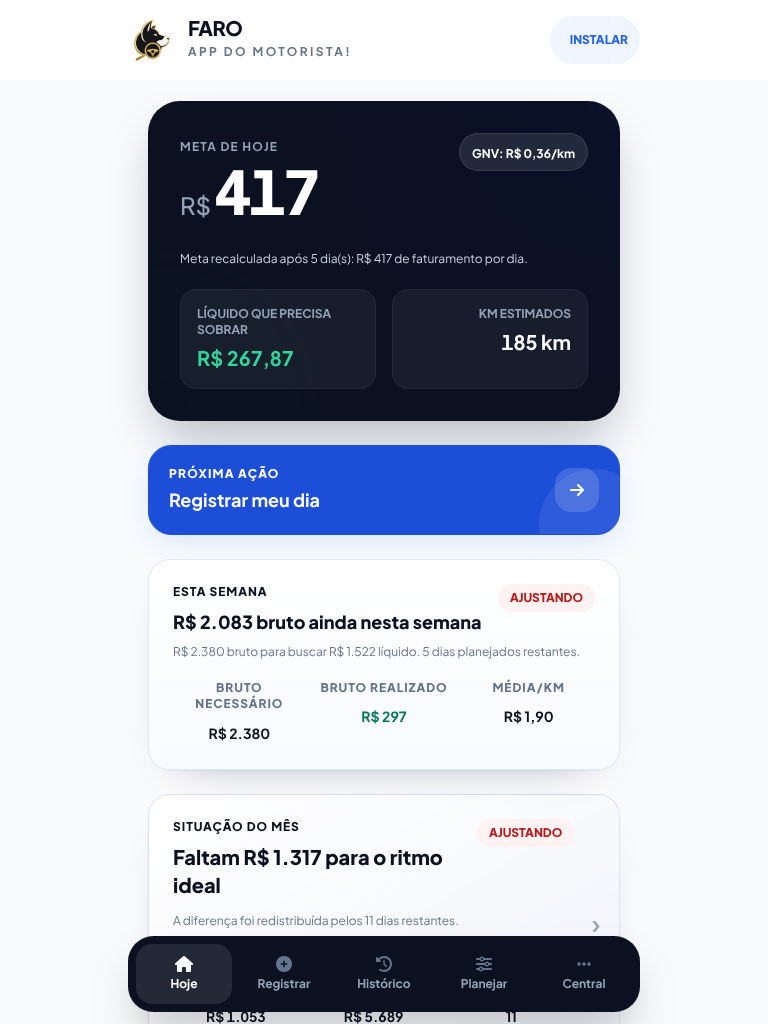
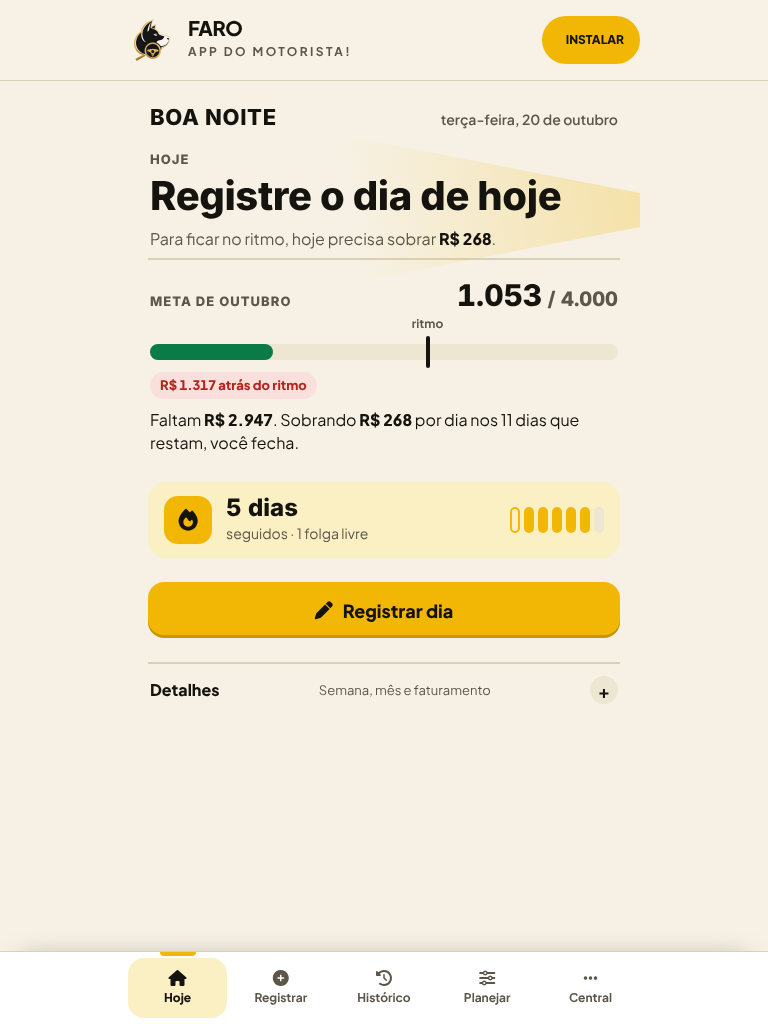
docs: estado real do plano ao fim do dia 1
Claude-Session: https://claude.ai/code/session_01CPX7m46cRthfLWuFdbhywq

diff --git a/PLANO.md b/PLANO.md
@@ -43,3 +43,9 @@ APK/Play Billing, ranking público, comparativo da cidade (v2), Pix recorrente (
 
 ## Governança enxuta
 Manter: hashes de núcleo financeiro, fail-closed do billing, deploy manual, branch de arquivo intocada. Dispensar para o resto: recibo por sondagem e estados BUILT/LOCAL_PASS em tudo que não for dinheiro.
+
+
+## Estado real em 2026-10-20 (fim do dia 1; atualizado a cada integração)
+FEITO e provado por teste (`npm run check` exit 0): paywall no servidor (trava ainda DESLIGADA), trial 7 dias único por e-mail, webhook corrigido, 4 Edge Functions no ar fail-closed (checkout, portal, webhook, excluir conta), cupom `PRAGAS` na sandbox, ícones PNG/manifest/offline, CSP/headers (Cloudflare), escape de HTML (módulos de dados), registro sem perda de dado + registrar em ~20 s, Início com 1 número herói, tema preto+âmbar global, termos/privacidade/excluir conta, QA de telas (qa:ui), guias Cloudflare/Supabase Free.
+FALTA (código): escape nos 4 módulos restantes (em andamento), vocabulário único (F7), edição com desfazer (F6), onboarding em 3 perguntas (F5), conquistas de dinheiro real, tela de Planos/trial/cupom (F8), tutorial de instalação iPhone refinado, telemetria mínima.
+FALTA (dono): 4 segredos no Supabase, permissões no settings.json, Cloudflare Pages (conta), campos legais, teste em iPhone/Android reais. Ver `docs/pendencias-do-dono.md`.

diff --git a/STATUS.md b/STATUS.md
@@ -3,7 +3,7 @@
 **REMOTE_FIRST = ALWAYS** · **SOLE_DURABLE_PROJECT_TRUTH = GitHub remote** · Linear aposentado · Notion não é autoridade.
 
 ## Onde estamos (2026-10-20)
-- Linha canônica: `claude/pwa-driver-production-fm0kk9` (integra WU-004 poda, WU-002B correção do salvar dia, WU-002 docs comerciais).
+- Linha canônica: `claude/pwa-driver-production-fm0kk9` (PR rascunho #20). Integra WU-002/002B/004, cobrança no servidor, base PWA, registro/Início/tema novos, legal/LGPD.
 - `npm run check` e `npm run build`: PASS nesta linha.
 - Plano de lançamento em 4 dias: `PLANO.md`.
 - Billing: `billingEnabled=false` (fail-closed) até E2E Stripe/Supabase passar.
